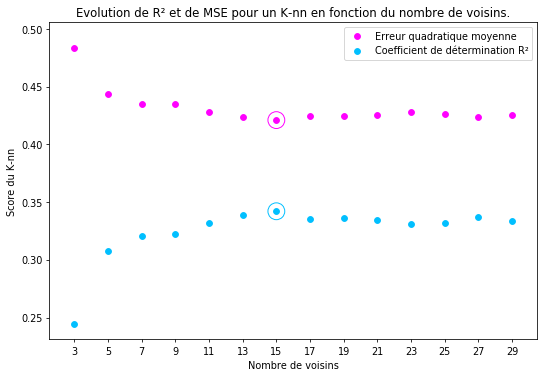
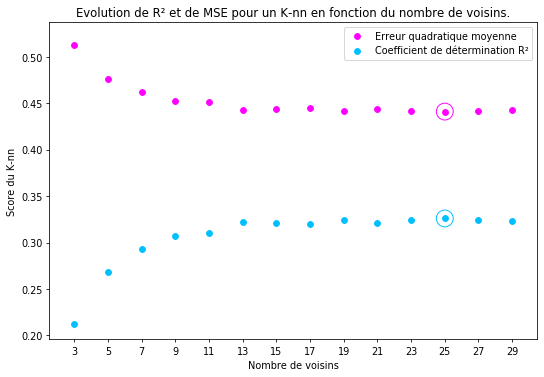
Add markdown files

diff --git a/OpenClassroomsEvaluerPerformances/TP2/TP2.md b/OpenClassroomsEvaluerPerformances/TP2/TP2.md
@@ -121,23 +121,23 @@ for mean, std, params in zip(clf_mse.cv_results_['mean_test_score'], # score moy
 ```
 
     Meilleur hyperparamètre sur le jeu d'entraînement pour la métrique MSE:
-    	{'n_neighbors': 15}
+    	{'n_neighbors': 25}
     
     Résultats de la recherche sur grille pour la métrique MSE:
-    	mse = 0.484 (+/-0.126) for {'n_neighbors': 3}
-    	mse = 0.444 (+/-0.109) for {'n_neighbors': 5}
-    	mse = 0.435 (+/-0.110) for {'n_neighbors': 7}
-    	mse = 0.435 (+/-0.132) for {'n_neighbors': 9}
-    	mse = 0.428 (+/-0.119) for {'n_neighbors': 11}
-    	mse = 0.424 (+/-0.102) for {'n_neighbors': 13}
-    	mse = 0.421 (+/-0.094) for {'n_neighbors': 15}
-    	mse = 0.425 (+/-0.077) for {'n_neighbors': 17}
-    	mse = 0.424 (+/-0.077) for {'n_neighbors': 19}
-    	mse = 0.426 (+/-0.075) for {'n_neighbors': 21}
-    	mse = 0.428 (+/-0.072) for {'n_neighbors': 23}
-    	mse = 0.427 (+/-0.070) for {'n_neighbors': 25}
-    	mse = 0.424 (+/-0.064) for {'n_neighbors': 27}
-    	mse = 0.425 (+/-0.066) for {'n_neighbors': 29}
+    	mse = 0.512 (+/-0.060) for {'n_neighbors': 3}
+    	mse = 0.477 (+/-0.038) for {'n_neighbors': 5}
+    	mse = 0.462 (+/-0.039) for {'n_neighbors': 7}
+    	mse = 0.453 (+/-0.032) for {'n_neighbors': 9}
+    	mse = 0.451 (+/-0.034) for {'n_neighbors': 11}
+    	mse = 0.443 (+/-0.026) for {'n_neighbors': 13}
+    	mse = 0.444 (+/-0.025) for {'n_neighbors': 15}
+    	mse = 0.445 (+/-0.025) for {'n_neighbors': 17}
+    	mse = 0.442 (+/-0.027) for {'n_neighbors': 19}
+    	mse = 0.444 (+/-0.026) for {'n_neighbors': 21}
+    	mse = 0.442 (+/-0.027) for {'n_neighbors': 23}
+    	mse = 0.441 (+/-0.033) for {'n_neighbors': 25}
+    	mse = 0.442 (+/-0.032) for {'n_neighbors': 27}
+    	mse = 0.443 (+/-0.029) for {'n_neighbors': 29}
 
 
 
@@ -147,7 +147,7 @@ m = "Erreur quadratique moyenne obtenue sur le jeu de test en optimisant MSE : {
 print(m.format(metrics.mean_squared_error(y_test, y_pred_mse)))
 ```
 
-    Erreur quadratique moyenne obtenue sur le jeu de test en optimisant MSE : 0.466
+    Erreur quadratique moyenne obtenue sur le jeu de test en optimisant MSE : 0.428
 
 
 
@@ -183,23 +183,23 @@ for mean, std, params in zip(clf_R2.cv_results_['mean_test_score'], # score moye
 ```
 
     Meilleur hyperparamètre sur le jeu d'entraînement pour la métrique R²:
-    	{'n_neighbors': 15}
+    	{'n_neighbors': 25}
     
     Résultats de la recherche sur grille pour la métrique R²:
-    	R2 = 0.244 (+/-0.122) for {'n_neighbors': 3}
-    	R2 = 0.307 (+/-0.084) for {'n_neighbors': 5}
-    	R2 = 0.321 (+/-0.092) for {'n_neighbors': 7}
-    	R2 = 0.322 (+/-0.126) for {'n_neighbors': 9}
-    	R2 = 0.332 (+/-0.108) for {'n_neighbors': 11}
-    	R2 = 0.339 (+/-0.086) for {'n_neighbors': 13}
-    	R2 = 0.342 (+/-0.081) for {'n_neighbors': 15}
-    	R2 = 0.335 (+/-0.062) for {'n_neighbors': 17}
-    	R2 = 0.336 (+/-0.059) for {'n_neighbors': 19}
-    	R2 = 0.334 (+/-0.056) for {'n_neighbors': 21}
-    	R2 = 0.331 (+/-0.061) for {'n_neighbors': 23}
-    	R2 = 0.332 (+/-0.056) for {'n_neighbors': 25}
-    	R2 = 0.337 (+/-0.046) for {'n_neighbors': 27}
-    	R2 = 0.334 (+/-0.054) for {'n_neighbors': 29}
+    	R2 = 0.212 (+/-0.211) for {'n_neighbors': 3}
+    	R2 = 0.268 (+/-0.164) for {'n_neighbors': 5}
+    	R2 = 0.293 (+/-0.115) for {'n_neighbors': 7}
+    	R2 = 0.307 (+/-0.106) for {'n_neighbors': 9}
+    	R2 = 0.310 (+/-0.103) for {'n_neighbors': 11}
+    	R2 = 0.322 (+/-0.103) for {'n_neighbors': 13}
+    	R2 = 0.321 (+/-0.109) for {'n_neighbors': 15}
+    	R2 = 0.320 (+/-0.096) for {'n_neighbors': 17}
+    	R2 = 0.325 (+/-0.093) for {'n_neighbors': 19}
+    	R2 = 0.321 (+/-0.092) for {'n_neighbors': 21}
+    	R2 = 0.324 (+/-0.092) for {'n_neighbors': 23}
+    	R2 = 0.326 (+/-0.081) for {'n_neighbors': 25}
+    	R2 = 0.325 (+/-0.083) for {'n_neighbors': 27}
+    	R2 = 0.323 (+/-0.089) for {'n_neighbors': 29}
 
 
 
@@ -328,76 +328,15 @@ add_model_scores('k-nn', y_pred_mse)
 df = pd.DataFrame(model_comparison)
 df['best'] = df.min(axis=1)
 
-df
+print(df)
 ```
 
-
-
-
-<div>
-<style scoped>
-    .dataframe tbody tr th:only-of-type {
-        vertical-align: middle;
-    }
-
-    .dataframe tbody tr th {
-        vertical-align: top;
-    }
-
-    .dataframe thead th {
-        text-align: right;
-    }
-</style>
-<table border="1" class="dataframe">
-  <thead>
-    <tr style="text-align: right;">
-      <th></th>
-      <th>random</th>
-      <th>constant</th>
-      <th>k-nn</th>
-      <th>best</th>
-    </tr>
-  </thead>
-  <tbody>
-    <tr>
-      <td>mse</td>
-      <td>3.093750</td>
-      <td>0.677457</td>
-      <td>0.466333</td>
-      <td>0.466333</td>
-    </tr>
-    <tr>
-      <td>rmse</td>
-      <td>1.758906</td>
-      <td>0.823078</td>
-      <td>0.682886</td>
-      <td>0.682886</td>
-    </tr>
-    <tr>
-      <td>rss</td>
-      <td>1485.000000</td>
-      <td>325.179366</td>
-      <td>223.840000</td>
-      <td>223.840000</td>
-    </tr>
-    <tr>
-      <td>rse</td>
-      <td>4.566710</td>
-      <td>1.000000</td>
-      <td>0.688359</td>
-      <td>0.688359</td>
-    </tr>
-    <tr>
-      <td>-r2</td>
-      <td>3.583451</td>
-      <td>0.003666</td>
-      <td>-0.309118</td>
-      <td>-0.309118</td>
-    </tr>
-  </tbody>
-</table>
-</div>
-
+               random    constant        k-nn        best
+    mse      2.897917    0.630588    0.427857    0.427857
+    rmse     1.702327    0.794096    0.654108    0.654108
+    rss   1391.000000  302.682266  205.371200  205.371200
+    rse      4.595578    1.000000    0.678504    0.678504
+    -r2      3.601675    0.001327   -0.320596   -0.320596
 
 
 ### Conclusion
